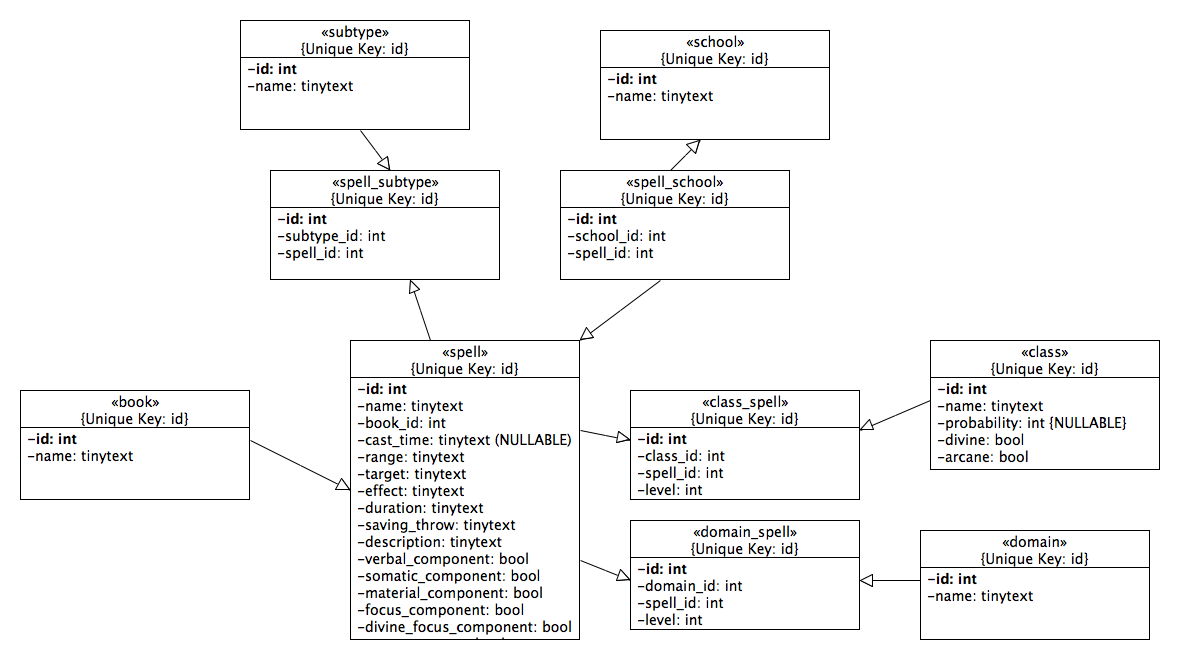
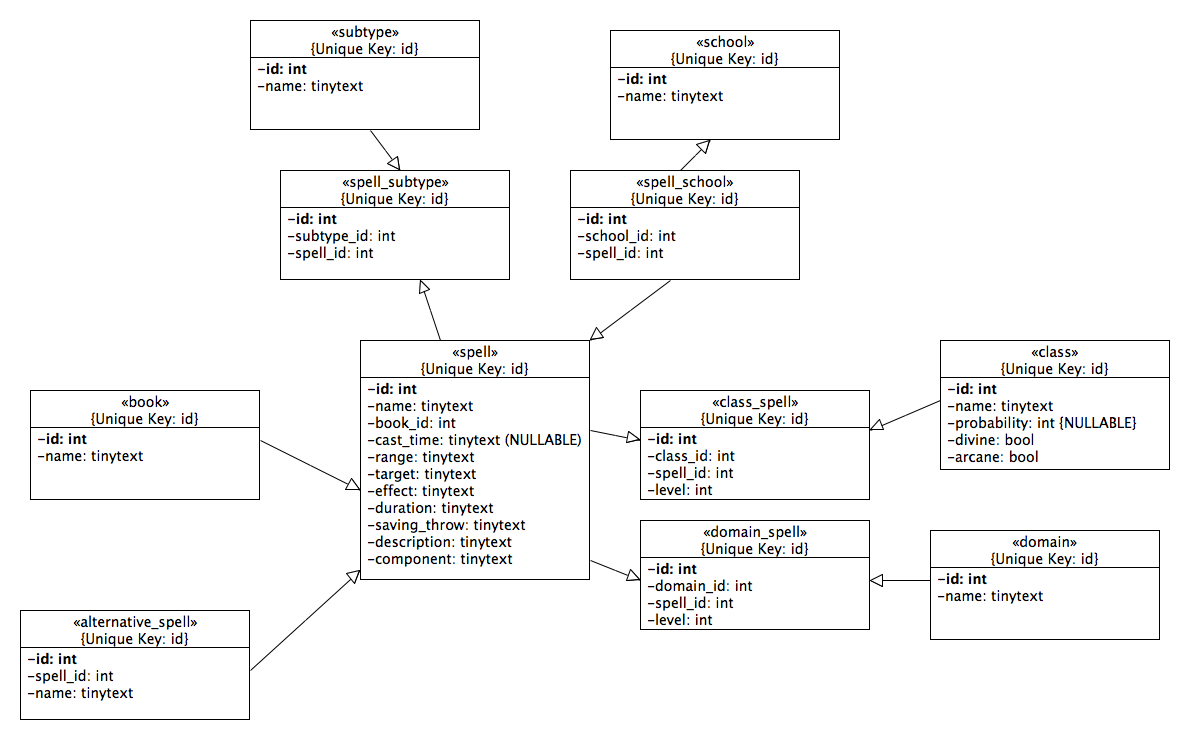
Some more db changes.

diff --git a/general/spell_db_populater.py b/general/spell_db_populater.py
@@ -12,10 +12,7 @@ def table_setup(name, db_cursor):
             (id INTEGER PRIMARY KEY, name TINYTEXT,\
             cast_time TINYTEXT, range TINYTEXT,\
             target TINYTEXT, effect TINYTEXT, duration TINYTEXT, saving_throw TINYTEXT,\
-            description TINYTEXT, verbal_component INT,\
-            somatic_component INT, material_component INT,\
-            focus_component INT, divine_focus_component INT,\
-            xp_component INT)")
+            description TINYTEXT, components TINYTEXT)")
 
     elif(name == 'class'):
         db_cursor.execute("CREATE TABLE class (\
